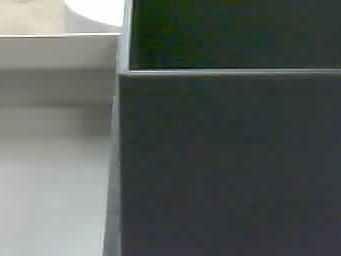
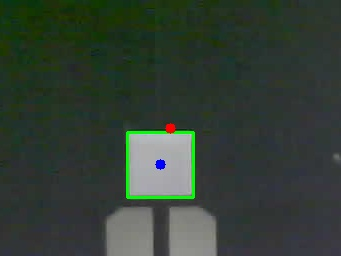
working full auto calibration

diff --git a/perpetual_hardware/packages/perpetual_os1/src/perpetual_os1/robot.py b/perpetual_hardware/packages/perpetual_os1/src/perpetual_os1/robot.py
@@ -13,19 +13,28 @@ from typing import Union, Annotated, Literal
 
 import asyncio
 SLIDE_EXTENSION = 50
-GRIPPER_EXTENSION_PICK = 167
-GRIPPER_EXTENSION_PLACE = 163
+GRIPPER_EXTENSION_PICK = 171 #167
+GRIPPER_EXTENSION_PLACE = 165
 REVERSE = 180.5
 JOG = 30
 
 PXMM = 0.22 #pixels per mm mvmt
 
-BAY1 = 18
-BAY2 = 174
-BAY3 = 330
+# 248.216, 345.608, 464.44, 616.68
+
+BAY1 = 249
+BAY2 = 346
+BAY3 = 464
 # BAY4 = 486
-BAY4 = 463.5
-BAY5 = 574.5
+BAY4 = 617
+# BAY5 = 574.5
+
+# BAY1 = 249
+# BAY2 = 174
+# BAY3 = 330
+# # BAY4 = 486
+# BAY4 = 463.5
+# BAY5 = 574.5
 
 class StopCommand(BaseModel):
     command: Literal["stop"] = "stop"
@@ -132,40 +141,17 @@ class Robot:
         # todo motor list
 
     async def move(self, coordinate: AxisCoordinate) -> None:
+        # await self.get_grid()
         await self.home()
         await self._mr.move_to_position(REVERSE)
-
-        # pos = await self.auto_cal()
-        # pos = 0
-        end = 0
-        while True: # get from params
-            # print(end)
-            pos = await self.auto_cal()
-            print(pos)
-            if pos:
-                self._bays.append(pos)
-                print(pos)
-                await asyncio.sleep(1)
-                await self._mx.jog(JOG)
-            await asyncio.sleep(1)
-
-            if end > 600:
-                break
-
-            end = await self._mx.get_position()
-            end = self._mx._params["mpr"]*end/10000
-        
-        print(self._bays)
-
-
-        # pos = await self._mx.get_position()
-        # print(self._mx._params["mpr"]*pos/10000)
-        # await self._mx.jog(1)
-        # await self.auto_cal() # this second one should not move at all
-        # self._cam.capture_sync("beb.jpg")
-        # print("it's a beb")
-        # await self.home()
-        # await self._mr.move_to_position(REVERSE)
+        await self.pick(AxisCoordinate(BAY1,0))
+        await self.place(AxisCoordinate(BAY1,0))
+        await self.pick(AxisCoordinate(BAY2,0))
+        await self.place(AxisCoordinate(BAY2,0))
+        await self.pick(AxisCoordinate(BAY3,0))
+        await self.place(AxisCoordinate(BAY3,0))
+        await self.pick(AxisCoordinate(BAY4,0))
+        await self.place(AxisCoordinate(BAY4,0))
         # for i in range(0,100):
         #     print(i)
         #     await self.pick(AxisCoordinate(BAY4, 0))
@@ -234,9 +220,9 @@ class Robot:
         # Crop to bottom half vertically
         # frame_middle = frame_middle[height // 3:, :]
         frame_middle = frame_middle[2 * third_h:, :]
-        cv2.imwrite("beb.jpg",frame_middle)
 
         bbox_crop = self._cam.get_fiducial(frame_middle)
+        cv2.imwrite("beb.jpg",frame_middle)
 
         if bbox_crop is None:
             # print("No white rectangular fiducial detected.")
@@ -257,7 +243,7 @@ class Robot:
             cv2.circle(frame_middle, (int(obj_center[0]), int(obj_center[1])), 5, (255, 0, 0), -1)
             cv2.circle(frame_middle, (int(frame_center[0]), int(frame_center[1])), 5, (0, 0, 255), -1)
             offset_mm = (obj_center[0]-frame_center[0])*PXMM
-
+            cv2.imwrite("beb.jpg",frame_middle)
             
 
             # print(offset_mm)
@@ -266,7 +252,6 @@ class Robot:
 
     async def auto_cal(self):
         # self._cam.start_stream()
-
         frame = await self._cam.capture()
         offset = await self.centering(frame)
         if offset is False:
@@ -279,7 +264,30 @@ class Robot:
             pos = ((self._mx._params["mpr"]*pos)/10000) #in mm
             # await self._mx.jog(25) # bump it
             return pos
-       
+        
+    async def get_grid(self):
+        end = 0
+        await self.home()
+        await self._mx.move_to_position(250)
+        await self._mr.move_to_position(REVERSE)
+        while True: # get from params
+            # print(end)
+            pos = await self.auto_cal()
+            # print(pos)
+            if pos:
+                self._bays.append(pos)
+                print(pos)
+                await asyncio.sleep(1)
+                await self._mx.jog(JOG)
+            await asyncio.sleep(1)
+
+            if end > 600:
+                break
+
+            end = await self._mx.get_position()
+            end = self._mx._params["mpr"]*end/10000 # todo param
+        
+        print(self._bays)
 
     def get_storage(self) -> StorageGrid:
         return self._storage

diff --git a/perpetual_hardware/packages/hardware/src/hardware/camera.py b/perpetual_hardware/packages/hardware/src/hardware/camera.py
@@ -10,8 +10,8 @@ import time
 # the camera stops working after a certain number of captures. maybe it's filling up internal memory
 
 # todo set this with real dimensions of the fiducial
-W_EXPECTED = 70
-H_EXPECTED = 30 # 27
+W_EXPECTED = 64
+H_EXPECTED = 64 # 27
 EXPECTED_AREA = W_EXPECTED * H_EXPECTED
 EXPECTED_ASPECT = W_EXPECTED / H_EXPECTED
 TOLERANCE_AREA = 0.5  # 50% margin
